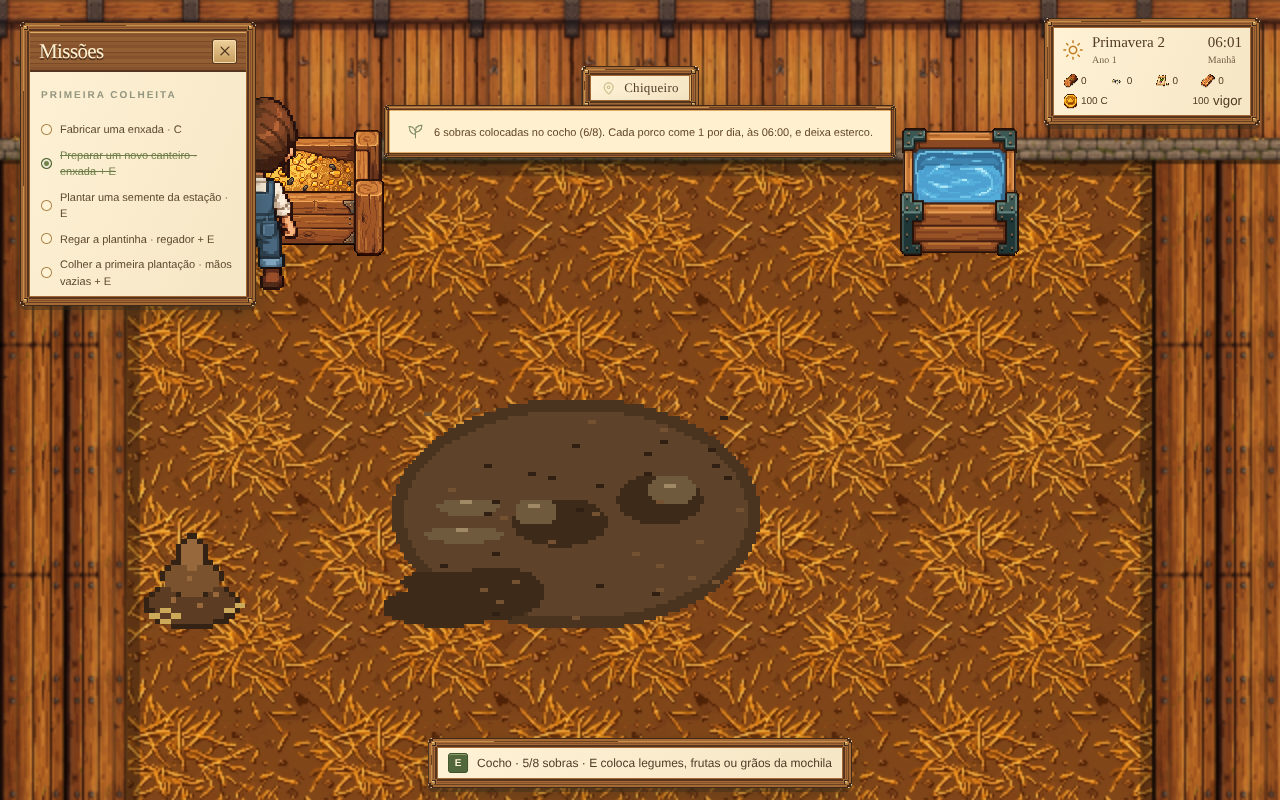
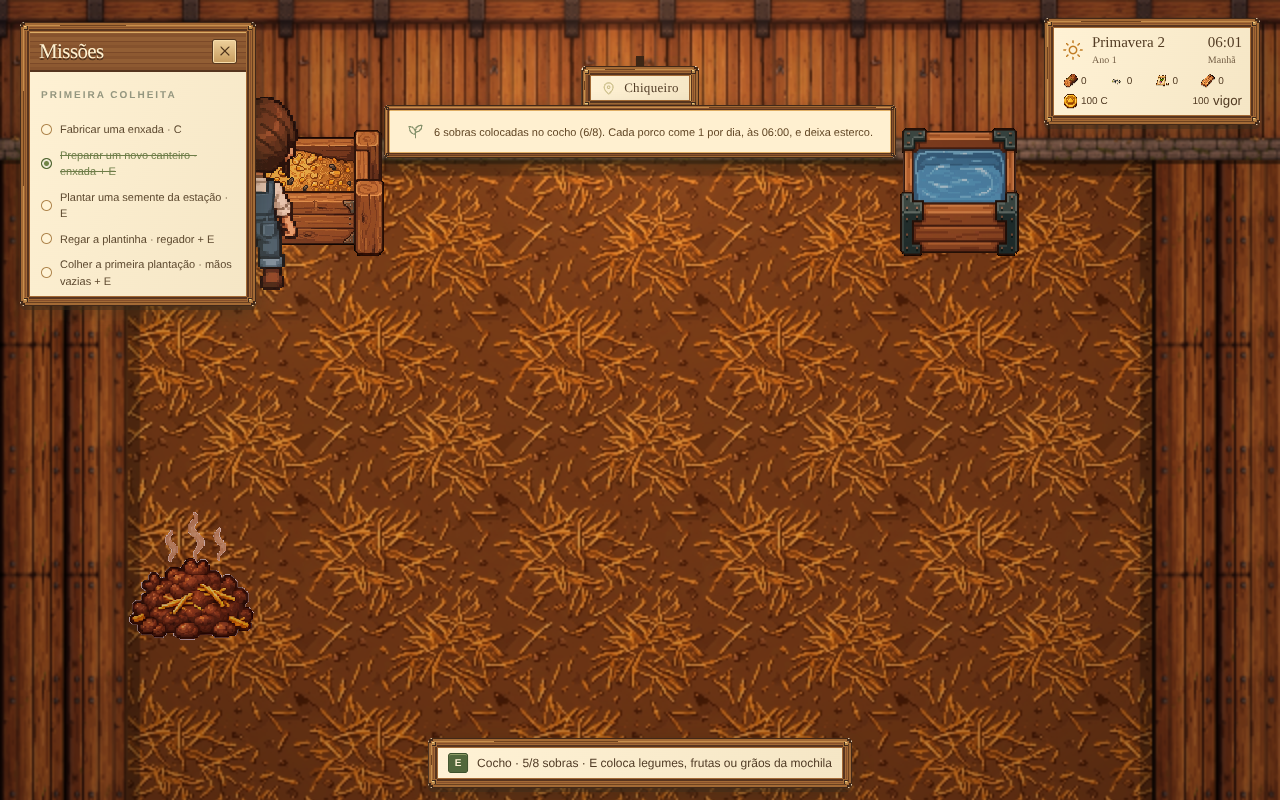
Chiqueiro só com chão de palha, sem a mancha de lama
O Junior preferiu o chiqueiro com o chão de palha e sem o lamaçal no centro.
A arte do lamaçal do lote 01 fica guardada.

Claude-Session: https://claude.ai/code/session_01VpVxgMQDGaCXuwQcLEJaM9

diff --git a/tests/pigs.test.ts b/tests/pigs.test.ts
@@ -22,7 +22,9 @@ describe('porcos e chiqueiro',()=>{
   const s=createNewSave(createCharacterProfile('Rosa'));s.villageEconomy!.coins=1000;
   expect(performVillageService(s,'buy-pig').ok).toBe(true);expect(s.recruitedAnimals).toContain(PIG);expect(s.villageEconomy!.coins).toBe(600);
   expect(domesticAnimal(PIG)?.kind).toBe('pig');expect(farmAcceptsAnimal('pigsty','pig')).toBe(true);expect(farmAcceptsAnimal('coop','pig')).toBe(false);
-  const l=FARM_INTERIORS.pigsty!;expect(l.fixtures.map(f=>f.kind)).toEqual(expect.arrayContaining(['trough','water','mud','manure']));
+  const l=FARM_INTERIORS.pigsty!;expect(l.fixtures.map(f=>f.kind)).toEqual(expect.arrayContaining(['trough','water','manure']));
+  // O Junior preferiu o chão de palha sem a mancha de lama no centro (16/11/2026).
+  expect(l.fixtures.some(f=>f.kind==='mud')).toBe(false);
   expect(l.fixtures.filter(f=>f.kind==='manure')).toHaveLength(MANURE_SPOTS);expect(validateSave(s)).toBe(true);
  });
  it('o cocho aceita só sobras da horta (legumes, frutas e grãos), não palha nem flores',()=>{

diff --git a/src/data/farm-interiors.ts b/src/data/farm-interiors.ts
@@ -22,10 +22,9 @@ export const FARM_INTERIORS:Partial<Record<FarmKind,FarmInteriorLayout>>={
   fixture('shearing-pen','stall',8,4,3,3,'Área de tosquia',false),
   {id:'stall-divider-shearing',kind:'stall',x:8*T-3,y:4*T,w:6,h:3*T-8,solid:true,label:'Divisória da tosquia'},
  ]},
- // Chiqueiro 10×8: cocho e bebedouro no alto, lamaçal no meio e quatro cantos onde aparece esterco.
+ // Chiqueiro 10×8: cocho e bebedouro no alto, chão de palha e quatro cantos onde aparece esterco.
  pigsty:{width:10,height:8,doorX:4,doorWidth:2,floor:'straw',fixtures:[
   fixture('trough','trough',1,1,2,1,'Cocho'),fixture('water','water',7,1,1,1,'Bebedouro'),
-  fixture('mud','mud',3,3,3,2,'Lamaçal',false),
   ...[[1,4],[8,3],[1,6],[8,6]].map(([x,y],i)=>fixture(`manure-${i+1}`,'manure',x,y,1,1,'Esterco',false)),
  ]},
  // Curral 14×10: quatro baias no alto, separadas por divisórias; cocho e bebedouro embaixo.

diff --git a/docs/construcoes/ABELHAS-E-PATOS.md b/docs/construcoes/ABELHAS-E-PATOS.md
@@ -38,7 +38,7 @@ Com o mel e o ovo de pato, nenhuma receita da cozinha fica mais sem fonte.
 
 - **Compra:** a Rosa vende cada porco por 400 C, no serviço "Acolher um porco" (`farm-pig-1` a `farm-pig-4`).
 - **Chiqueiro:** construção nova (`pigsty`), 5×5, com o mesmo funcionamento do galinheiro. Custa 40 madeiras, 20 pedras, 12 tábuas, 6 madeiras nobres e 1 porta. Abriga até 4 porcos e usa os estágios de obra do galinheiro.
-- **Interior 10×8:** cocho, bebedouro, lamaçal e quatro cantos onde aparece o esterco.
+- **Interior 10×8:** cocho, bebedouro, chão de palha (sem lamaçal, a pedido do Junior) e quatro cantos onde aparece o esterco.
 - **Cocho:** aceita **sobras da horta** (legumes, frutas e grãos colhidos), não palha nem flores, até 8 porções.
 - **Esterco:** às 06:00, cada porco alimentado come 1 porção e deixa **1 esterco** num canto livre. E recolhe.
 - **Composteira:** máquina com projeto do **Tobias** (40 C), montada na bancada com 6 tábuas, 4 cavilhas e 6 pedras.
@@ -52,7 +52,7 @@ Com o mel e o ovo de pato, nenhuma receita da cozinha fica mais sem fonte.
 - Cera, ninho com ovo de pato e pena.
 - Méis de flor: o ícone do mel em outro tom.
 - Chiqueiro e composteira foram gerados com os últimos 4 créditos (GPT-Image-2, qualidade baixa). O fundo branco do chiqueiro foi removido por script.
-- O lamaçal do interior e o ícone do esterco foram desenhados por script.
+- O ícone do esterco e o adubo vieram do lote 01 de artes (`docs/arte-recebida/lote01-fazenda`). O lamaçal saiu do interior.
 - Os ids estão em `public/assets/visual/kitchen/spritecook-assets.json` e em `public/assets/visual/farm/interior/spritecook-assets.json`.
 
 ## Verificação

diff --git a/docs/planejamento/ARTE-PENDENTE.md b/docs/planejamento/ARTE-PENDENTE.md
@@ -1,10 +1,11 @@
 # Pixel arts que faltam
 
 > **Lote 01 recebido em 16/11/2026** (`docs/arte-recebida/lote01-fazenda/`, importado por
-> `scripts/import_art_lote01.py`). Já no jogo: esterco, adubo, lamaçal do chiqueiro,
+> `scripts/import_art_lote01.py`). Já no jogo: esterco, adubo,
 > colmeia (parada, abelhas, vazia e ícone), méis de margarida e girassol, tecido de lã e os
 > ícones de cavilhas, ervas, ervas raras, mapa antigo, mochila, botas e peças metálicas.
-> Ainda não usados: a porteira do lote (a do chiqueiro faz parte da arte da construção e
+> O lamaçal do lote ficou guardado (`farm/interior/mud.png`); o Junior preferiu o chiqueiro só
+> com palha, sem a mancha de lama. Ainda não usados: a porteira do lote (a do chiqueiro faz parte da arte da construção e
 > precisa ser encaixada nela) e os ícones extras sem item no jogo (pregos, dobradiça,
 > engrenagem, roda dentada, molas, frasco de óleo, alecrim, folhas, flores e cera bruta).
 
